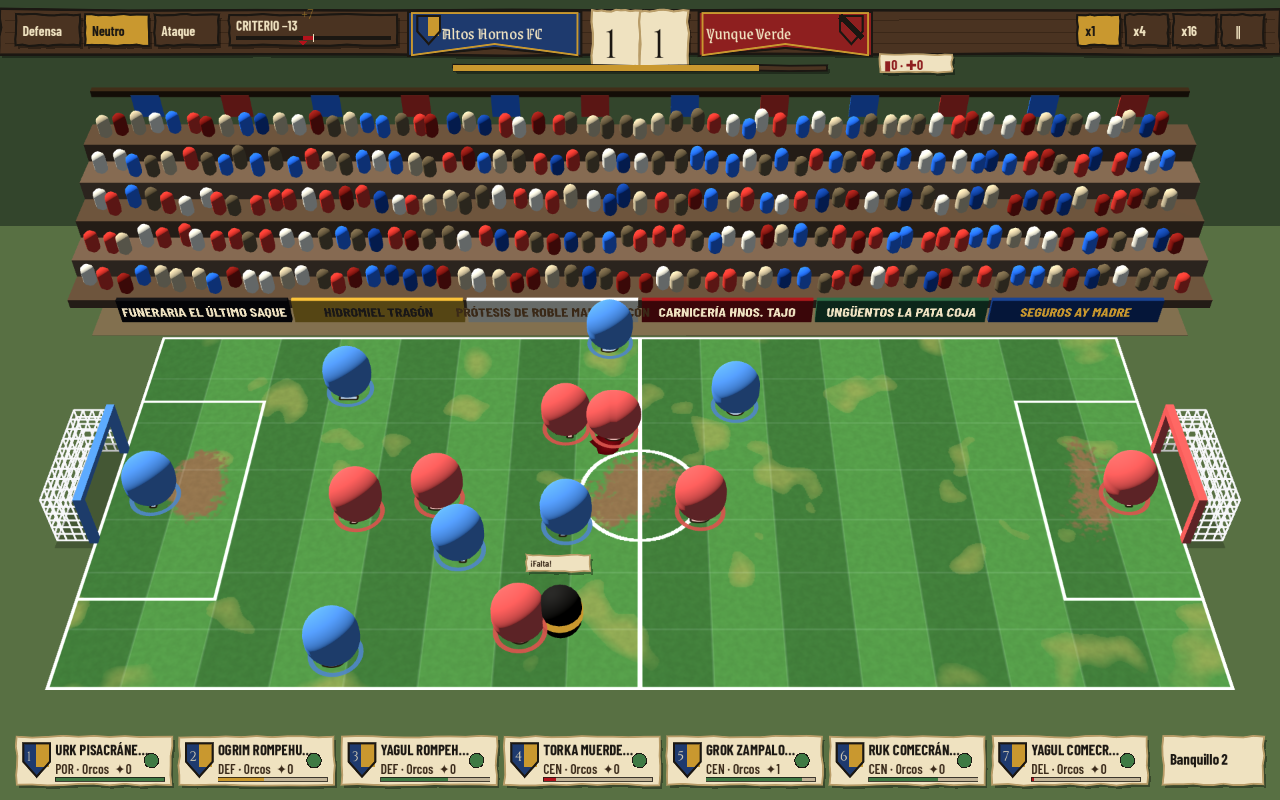
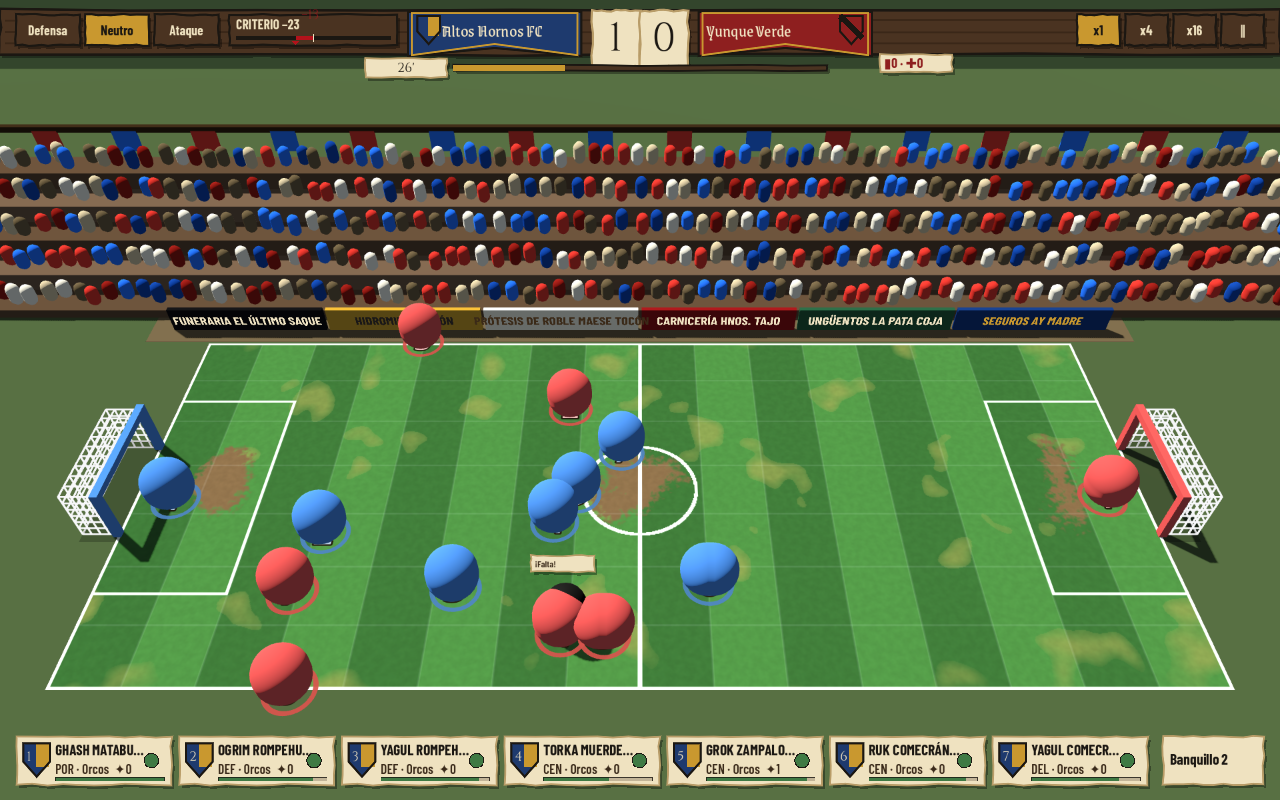
fix(game): reloj de 90 minutos en el tablero, con el reloj del partido y gol de oro en la turba — BX-14, RT-014
La barra avanzaba con el tick del motor y el reglamentario lo cierra el reloj, que se para en los saques
de centro (BC-A): en 120/120 partidos se llenaba ~30 s antes del pitido. El estandarte del gol, el bando
de la muerte, el aviso de repetición y la marca de depuración usaban el mismo tick equivocado.

Claude-Session: https://claude.ai/code/session_01AQr5r97eKSSoLTrMCwntSb

diff --git a/Game/Screens/BroadcastScreen.cs b/Game/Screens/BroadcastScreen.cs
@@ -982,7 +982,7 @@ public partial class BroadcastScreen : Control
     {
         bool ours = goal.Team == 0;
         string scorer = NameOf(goal.Actor);
-        int minute = MatchLogView.Minute(goal.Tick, _catalog.Tuning.RegulationTicks);
+        int minute = MatchLogView.Minute(goal.ClockTick, _catalog.Tuning.RegulationTicks);
         string team = ours ? _playback.OwnName : _playback.RivalName;
         PositionBanner(goal.Cell);
         _banner.Show(
@@ -1189,7 +1189,7 @@ public partial class BroadcastScreen : Control
     {
         string name = NameOf(death.Actor);
         string position = UiText.Get("ui.pos." + PositionOf(death.Actor));
-        int minute = MatchLogView.Minute(death.Tick, _catalog.Tuning.RegulationTicks);
+        int minute = MatchLogView.Minute(death.ClockTick, _catalog.Tuning.RegulationTicks);
         string perk = PerkNameFromDetail(death.Detail);
         string body = perk.Length > 0
             ? UiText.Get("ui.pregon.edict.bodyWithCause", position, minute, perk)
@@ -1289,7 +1289,7 @@ public partial class BroadcastScreen : Control
         int end = _trace is { FrameCount: > 0 } t ? t.TickAt(t.FrameCount - 1) : int.MaxValue;
         _replayNotice.Text = floor >= end
             ? UiText.Get("ui.match.replayLockedAll")
-            : UiText.Get("ui.match.replayLocked", MatchLogView.Minute(floor, _catalog.Tuning.RegulationTicks));
+            : UiText.Get("ui.match.replayLocked", _trace!.MinuteAt(_trace.FrameOfTick(floor)));
     }
 
     private void UpdateBoard(int tick)
@@ -1299,8 +1299,15 @@ public partial class BroadcastScreen : Control
         UpdateReplayNotice(tick);
         _board.SetTeams(_playback.OwnName, _playback.RivalName);
         _board.SetScore(own, rival);
-        int regulation = Math.Max(1, _trace!.RegulationTicks);
-        _board.SetProgress(Mathf.Clamp((float)tick / regulation, 0f, 1f));
+        // BX-14: la barra y el minuto siguen el RELOJ del partido, que se para mientras el equipo vuelve a sacar de
+        // centro (BC-A), y no el tick del motor: con el tick la barra se llenaba ~20 s antes del pitido (120/120
+        // partidos medidos). En la turba no hay reloj: gol de oro.
+        var trace = _trace!;
+        int regulation = Math.Max(1, trace.RegulationTicks);
+        int frame = trace.FrameOfTick(tick);
+        int clock = trace.ClockTickAt(frame);
+        _board.SetProgress(Mathf.Clamp((float)clock / regulation, 0f, 1f));
+        _board.SetClock(trace.MinuteAt(frame), clock >= regulation && _playback.Result.Report.WentToGoldenGoal);
         _board.SetRivalResidue(UiText.Get("ui.pregon.board.residue", cards, casualties));
         _board.SetSpeedIndex(_speedIndex);
         _board.SetPaused(_manualPaused);

diff --git a/Game/Ui/Broadcast/BroadcastBoard.cs b/Game/Ui/Broadcast/BroadcastBoard.cs
@@ -66,6 +66,8 @@ public partial class BroadcastBoard : Control
     private int _ownScore;
     private int _rivalScore;
     private float _progress;
+    private int _minute;
+    private bool _goldenGoal;
     private string _rivalResidue = string.Empty;
     private int _speedIndex;
     private bool _paused;
@@ -86,6 +88,7 @@ public partial class BroadcastBoard : Control
     private Control _residue = null!;
     private Label _residueText = null!;
     private ProgressBar _progressBar = null!;
+    private Label? _clockText;
     private Label _criterion = null!;
     private BiasTrack _biasTrack = null!;
     private readonly Button[] _speedButtons = new Button[3];
@@ -135,6 +138,9 @@ public partial class BroadcastBoard : Control
         _residue = GetNode<Control>("%Residuo");
         _residueText = GetNode<Label>("%ResiduoTexto");
         _progressBar = GetNode<ProgressBar>("%Progreso");
+
+        // BX-14: opcional para no romper una escena del tablero anterior al reloj.
+        _clockText = GetNodeOrNull<Label>("%RelojTexto");
         _criterion = GetNode<Label>("%Criterio");
         _biasTrack = GetNode<BiasTrack>("%PistaCriterio");
         _pauseButton = GetNode<Button>("%Pausa");
@@ -197,6 +203,7 @@ public partial class BroadcastBoard : Control
         _rival = "Yunque Verde";
         _ownScore = 1;
         _progress = 0.45f;
+        _minute = 41;
         _rivalResidue = "−2 · +1";
         _bias = -23;
         _consumables = new[]
@@ -224,6 +231,17 @@ public partial class BroadcastBoard : Control
     public void SetProgress(float t)
     {
         _progress = Mathf.Clamp(t, 0f, 1f);
+        Refresh();
+    }
+
+    /// <summary>
+    /// El reloj del partido (BX-14): el minuto del <b>reloj</b> —el que se para mientras el equipo vuelve para
+    /// sacar de centro (BC-A)— y si el partido está en la turba, que no tiene reloj sino gol de oro.
+    /// </summary>
+    public void SetClock(int minute, bool goldenGoal)
+    {
+        _minute = Mathf.Clamp(minute, 0, 90);
+        _goldenGoal = goldenGoal;
         Refresh();
     }
 
@@ -306,6 +324,12 @@ public partial class BroadcastBoard : Control
         _residue.Visible = !string.IsNullOrEmpty(_rivalResidue);
         _residueText.Text = _rivalResidue;
         _progressBar.Value = _progress;
+        if (_clockText is not null)
+        {
+            _clockText.Text = _goldenGoal
+                ? UiText.Get("ui.pregon.board.clockMob")
+                : UiText.Get("ui.pregon.board.clock", _minute);
+        }
         _criterion.Text = UiText.Get("ui.pregon.board.bias", UiText.Signed(_bias));
         _biasTrack.Bias = _bias;
 

diff --git a/Game/Screens/MatchScreen.cs b/Game/Screens/MatchScreen.cs
@@ -800,12 +800,21 @@ public partial class MatchScreen : Control
     /// <summary>Fotograma del final del reglamentario, o -1 si el partido no pasó de ahí.</summary>
     private int RegulationFrame()
     {
-        if (_trace is not { FrameCount: > 0 } trace || trace.TickAt(trace.FrameCount - 1) <= trace.RegulationTicks)
+        // BX-14: el reglamentario lo cierra el RELOJ del partido (se para en los saques, BC-A), no el tick del motor.
+        if (_trace is not { FrameCount: > 0 } trace || trace.ClockTickAt(trace.FrameCount - 1) <= trace.RegulationTicks)
         {
             return -1;
         }
 
-        return trace.FrameOfTick(trace.RegulationTicks);
+        for (int frame = 0; frame < trace.FrameCount; frame++)
+        {
+            if (trace.ClockTickAt(frame) >= trace.RegulationTicks)
+            {
+                return frame;
+            }
+        }
+
+        return -1;
     }
 
     /// <summary>

diff --git a/Game/Ui/UiText.cs b/Game/Ui/UiText.cs
@@ -783,6 +783,11 @@ public static class UiText
         // Criterio del árbitro, SIEMPRE visible en el tablero (RF-062, ADR 0158 §6): el medidor de
         // BroadcastBoard.DrawCriterionMeter lee esta etiqueta con el signo ya puesto (UiText.Signed).
         ["ui.pregon.board.bias"] = "CRITERIO {0}",
+
+        // BX-14: el reloj del tablero cuenta minutos del reloj del partido (se para en los saques); en la turba
+        // no hay reloj, hay gol de oro.
+        ["ui.pregon.board.clock"] = "{0}'",
+        ["ui.pregon.board.clockMob"] = "Gol de oro",
         // El pergamino sobre la cabeza del árbitro en el campo 3D (ADR 0158 §6, RF-061, RF-119):
         // MatchPitchView3D.DrawRefereeGesture, falta pitada / falta no señalada.
         ["ui.pregon.referee.foul"] = "¡Falta!",

diff --git a/docs/pendientes/BX-playtest-3oct.md b/docs/pendientes/BX-playtest-3oct.md
@@ -25,6 +25,16 @@ Capturas: `capturas/playtest-3oct-saque-portero.png` (saque de puerta al centro,
 
 ## Paquete 3 — Sensación del partido: timing, lectura, sonido (`/Game`, diseño)
 - **BX-14** La barra de tiempo se llena y el partido no acaba. Mejor un reloj de 90 minutos como en el fútbol, y luego la prórroga sin reloj o algo así.
+  **Cerrada (9 oct).** Hipótesis: (H1) la barra avanza con el tick del motor y el reglamentario lo cierra el reloj
+  del partido, que se para mientras el equipo vuelve a sacar de centro (BC-A); (H2) el empate va a la turba con gol
+  de oro, sin tope visible. Sonda de 120 partidos de referencia (test desechable, `SimConfig.Trace`): reglamentario
+  1.200 ticks, partido medio 1.658; **en 120/120 la barra se llena antes del final**, 458 fotogramas de media
+  (~30 s a 1×); 41/120 van a la turba (561 fotogramas de media tras el reglamentario). **H1 y H2 CONFIRMED**, las
+  dos a la vez. Hermano por la Regla G: el estandarte del gol y el bando de la muerte ponían el minuto con el tick
+  del motor (hasta «minuto 123», el mismo fallo que `MatchLogView.Minute` ya advertía), el aviso de repetición
+  bloqueada y la marca del final del reglamentario en la pantalla de depuración. Arreglo, sólo `/Game`: reloj
+  «26'» en el tablero (`%Reloj`, pieza editable) y barra con el reloj del partido; en la turba el reloj dice «Gol
+  de oro». Captura `pausa-1-congelada.png`.
 - **BX-15** Las faltas deberían pitarse DESPUÉS de la entrada. Hoy se pita, se para, se ven jugadores cayendo, pero no queda claro quién ha caído ni quién ha hecho la falta. Es lo que menos se percibe como jugador.
 - **BX-16** La tirada del destino al lesionarse alguien tiene que ser algo gráfico, aunque pare el partido: por ejemplo, una ruleta verde y roja con una aguja que gira. Tiene que ser un evento curioso; hoy se siente atropellado.
 - **BX-17** Timing y pausa (cita): «Una de las mayores virtudes del humor es el timing y la pausa. Pasan cosas demasiado rápido, no tengo tiempo a procesar, sale un cartel 1 segundo, escucho un grito, no sé quién es, no me divierto, no me entero, es frustrante. Busca pausas, zooms… No tiene por qué ser excesivo, pero hay que buscar algo.» Esto corrige la tendencia a evitar parones a toda costa.
